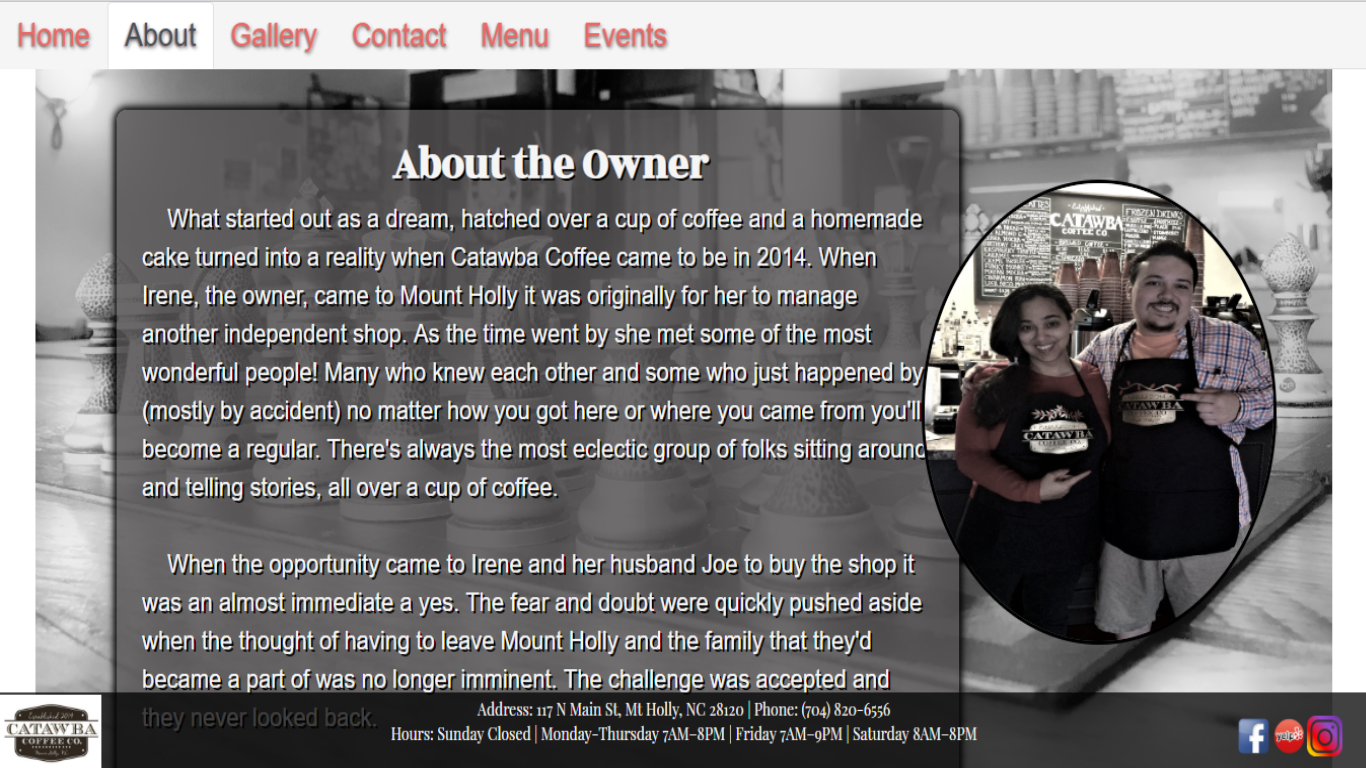
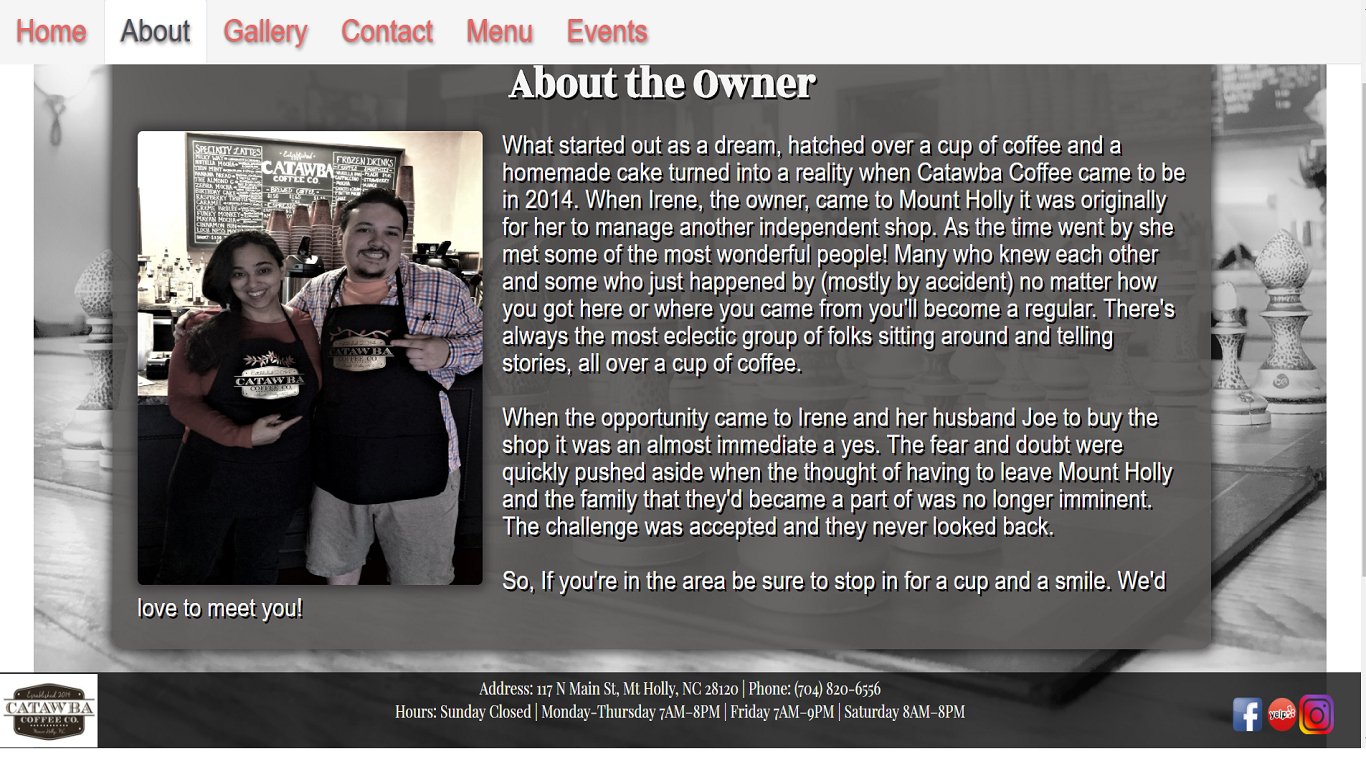
about page update

diff --git a/client/src/containers/About/About.css b/client/src/containers/About/About.css
@@ -7,36 +7,28 @@
     height: 800px;
     margin-left: 35px;
     margin-right:35px;
-    background-color: rgba(0, 0, 0, 0.651);
+    background-color: rgba(0, 0, 0, 0.37);
     color: rgba(128, 0, 0, 0.555);
     font-size: 18px;
-    border-color: black;
+    border-color: rgba(0, 0, 0, 0.664);
     text-shadow:-2px 0px 1px rgb(25, 47, 80) ,-1px 1px 1px rgb(25, 64, 80),0px 0px 2px rgb(25, 53, 80),1px 3px 5px rgb(25, 58, 80),2px 4px 10px rgb(80, 25, 25);
-
+    line-height: 24px;
 }
 
 .owner {
     border: black;
     height: 400px;
     width: 350px;
-    float: right;
-    /* padding:3px;
-    border:3px solid black;
-    border-radius: 20px; */
-    border: 3px solid black;
-    border-radius: 50%;
-    /* padding: 5px; */
-    position: absolute;
-    right: 90px;
-    top: 180px;
+    float: left;
+    margin-right:20px;
+    border-radius: 5px; 
+    box-shadow: 0px 0px 15px 4px rgba(36, 35, 35, 0.616);
 }
 .aboutUs {
-    width: 65%; 
-    Background: rgba(85, 83, 83, 0.801);
+    width: 85%; 
+    Background: rgba(90, 87, 87, 0.89);
      text-align: left;
      margin-left: 80px;
-     /* padding-right: 75px; */
-     /* border: 5px solid maroon; */
      font-size: 22px;
      text-shadow: 2px 2px black;
      border-radius: 10px;
@@ -44,10 +36,11 @@
      color: whitesmoke;
      position: relative;
      padding: 25px;
-     box-shadow: 0px 0px 10px 3px black;
-     text-indent: 25px;
+     /* text-indent: 25px; */
+     box-shadow: 0px 0px 15px 3px rgba(0, 0, 0, 0.616);
  }
  
  .aboutH1 {
     font-family: 'Rozha One', serif;
+    margin-bottom: 20px;
  }

diff --git a/client/src/containers/Home/Home.css b/client/src/containers/Home/Home.css
@@ -27,7 +27,7 @@ body {
     background-size: 100%;
 
     /* font-family: 'Rye', cursive; */
-    text-shadow: -1px 1px 1px rgb(25, 58, 80),0px 0px 2px rgb(37, 25, 80),1px 3px 5px rgb(25, 44, 80),2px 4px 10px rgb(80, 25, 25);
+    text-shadow: -1px 1px 2px rgb(25, 58, 80),0px 0px 2px rgb(37, 25, 80),1px 3px 5px rgb(25, 44, 80),2px 4px 10px rgb(80, 25, 25);
     text-align: center;
     /* border:1px solid rgba(255, 0, 0, 0.651); */
     background-color: rgba(237, 241, 243, 0);
@@ -40,6 +40,10 @@ body {
   /* -webkit-text-stroke: 1px rgb(19, 4, 4);
    paint-order: stroke fill; */
 
+}
+
+span{
+    color:  rgb(243, 240, 240);
 }
 .jumbotron p {
     font-size: 40px;

diff --git a/client/src/containers/About/About.js b/client/src/containers/About/About.js
@@ -11,6 +11,11 @@ const About = () => (
   <div className="about">
     <div className="aboutUs">
       <h1 className="aboutH1">About the Owner</h1>
+      <img
+      alt="owner"
+      className="owner"
+      src={require("../../images/CCireneBW.jpeg")}
+    />
       <p>
           What started out as a dream, hatched over a cup of coffee and a homemade
         cake turned into a reality when Catawba Coffee came to be in 2014. When
@@ -37,11 +42,7 @@ const About = () => (
       </p>
     </div>
 
-    <img
-      alt="owner"
-      className="owner"
-      src={require("../../images/CCireneBW.jpeg")}
-    />
+    
   </div>
 );
 

diff --git a/client/src/containers/Home/Home.js b/client/src/containers/Home/Home.js
@@ -14,7 +14,7 @@ const Home = () => (
 <div className="row">
 <div className="col-12">
 <div className="jumbotron">
- <h1 className="text-center">CATAWBA COFFEE Co</h1>
+ <h1 className="text-center">CATAWBA <span>COFFEE CO.</span></h1>
  <p className="text-center">Where Friendship Is Just A Cup Away</p>
    </div>    
 </div>{/*col-12 end */}

diff --git a/README.md b/README.md
@@ -1,12 +1,58 @@
-# Project_3
-Compelling story
-customer requirements
-technologies
-Future Enhancements
-Deployment
+# **Catawba Coffee Project.**
+The goal of our project is to designed web site than can actually used by our client, **_Catawba Coffee Co._** 
 
-Gallery
-Sangrid
 
-Big React Cal
-  
+### **Client Requests for web site:**
+* Displays menu.
+* Shows our upcoming events.
+* Has a blog.
+* A place for our clients to communicate with us. 
+* Displays contact information. 
+
+
+
+___
+
+
+## **Web Site Layout:**
+
+### **Home Page**
+![Home Page](https://raw.githubusercontent.com/oscarsolorzano/Project_3/master/client/src/images/cchome.png)
+
+### **About**
+![About](/client/src/images/ccabout.png)
+
+### **Gallery**
+![Gallery](https://raw.githubusercontent.com/oscarsolorzano/Project_3/master/client/src/images/ccgallery.png)
+
+### **Contact Page**
+
+![Contact](https://raw.githubusercontent.com/oscarsolorzano/Project_3/master/client/src/images/cccontact.png)
+
+### **Menu**
+![Menu](https://raw.githubusercontent.com/oscarsolorzano/Project_3/master/client/src/images/ccmenu.png)
+
+### **Events**
+![Events](https://raw.githubusercontent.com/oscarsolorzano/Project_3/master/client/src/images/ccevents.png)
+
+
+
+---
+## **Technologies Used:**
+* @sendgrid/mail 6.3.1
+* Axios 0.18
+* Moment   2.22.2 
+* Mongoose   5.2.7 
+* React   16.4.2 
+* React-big-calendar   0.19.2 
+* React-dom   16.4.2 
+* React-photo-gallery   6.1.7 
+* React-router-dom   4.3.1 
+* React-scripts   1.1.4 
+
+---
+### **Web Site Url:**
+  *https://evening-island-44272.herokuapp.com/*
+
+### **Git Hub :**
+*https://github.com/oscarsolorzano/Project_3*
